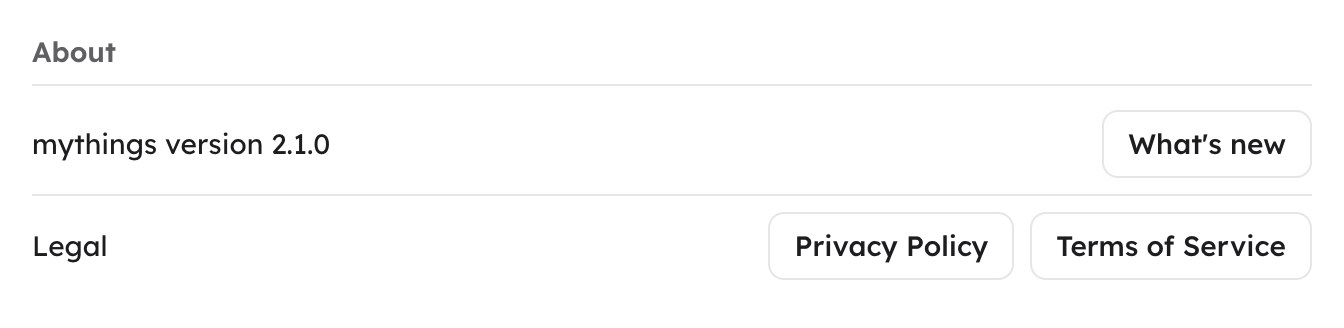
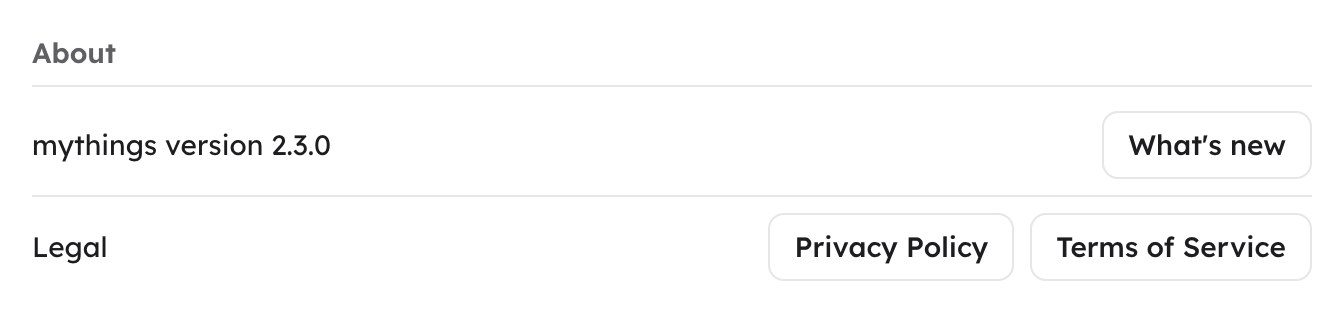
User guide: Settings screenshots show the Long to-do titles setting

diff --git a/Core_User_Guide.md b/Core_User_Guide.md
@@ -971,7 +971,7 @@ The page has these sections, from top to bottom.
 
 ### 16.1 Appearance
 
-![Appearance settings: Theme (System, Light, Dark) and Text size (Small, Default, Large, Larger)](docs/guide/settings-appearance.jpg)
+![Appearance settings: Theme (System, Light, Dark) and Text size (Small, Default, Large, Larger) and Long to-do titles (Wrap, One line)](docs/guide/settings-appearance.jpg)
 
 - **Theme:** **System** (follows your device), **Light** or **Dark**. It's applied before the page even appears, so there's no flash of the wrong colors.
 
